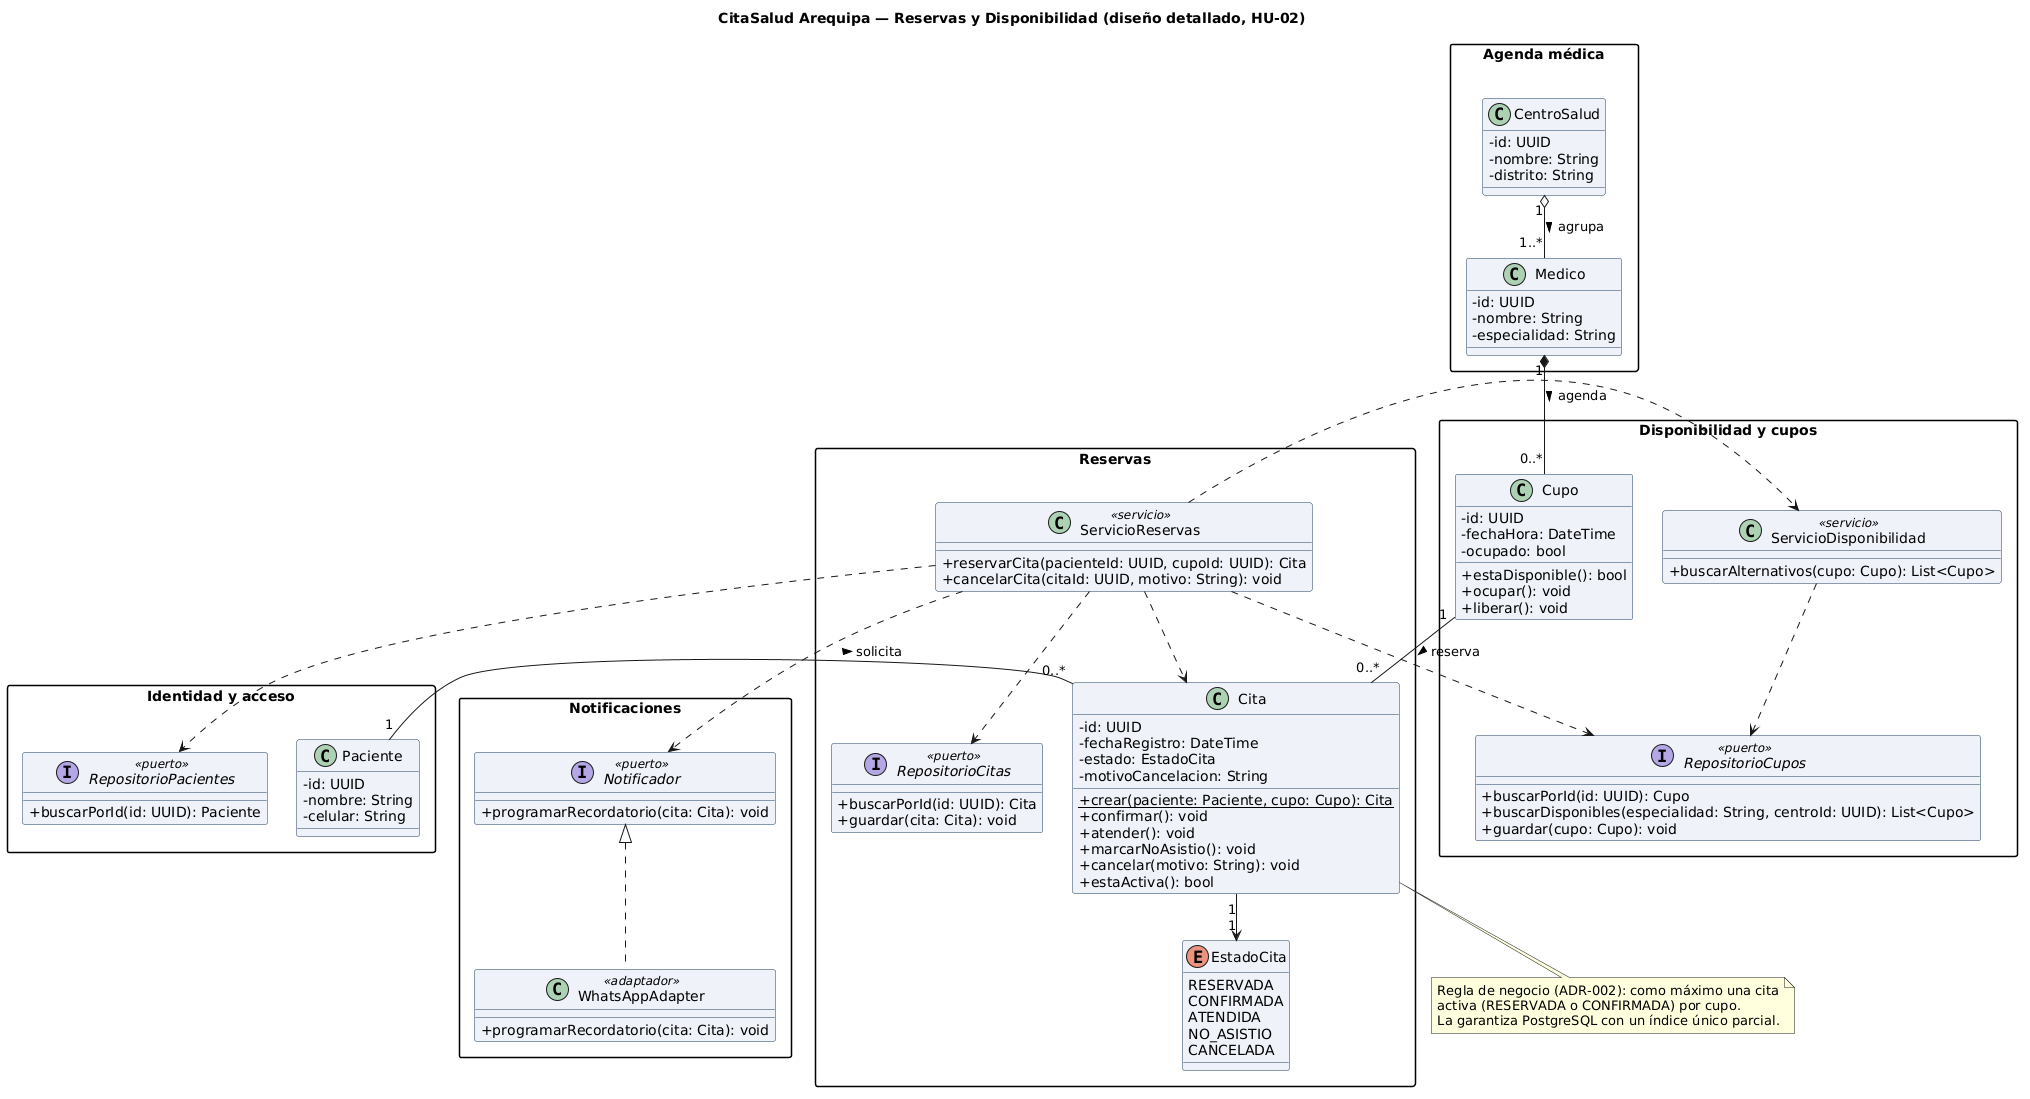
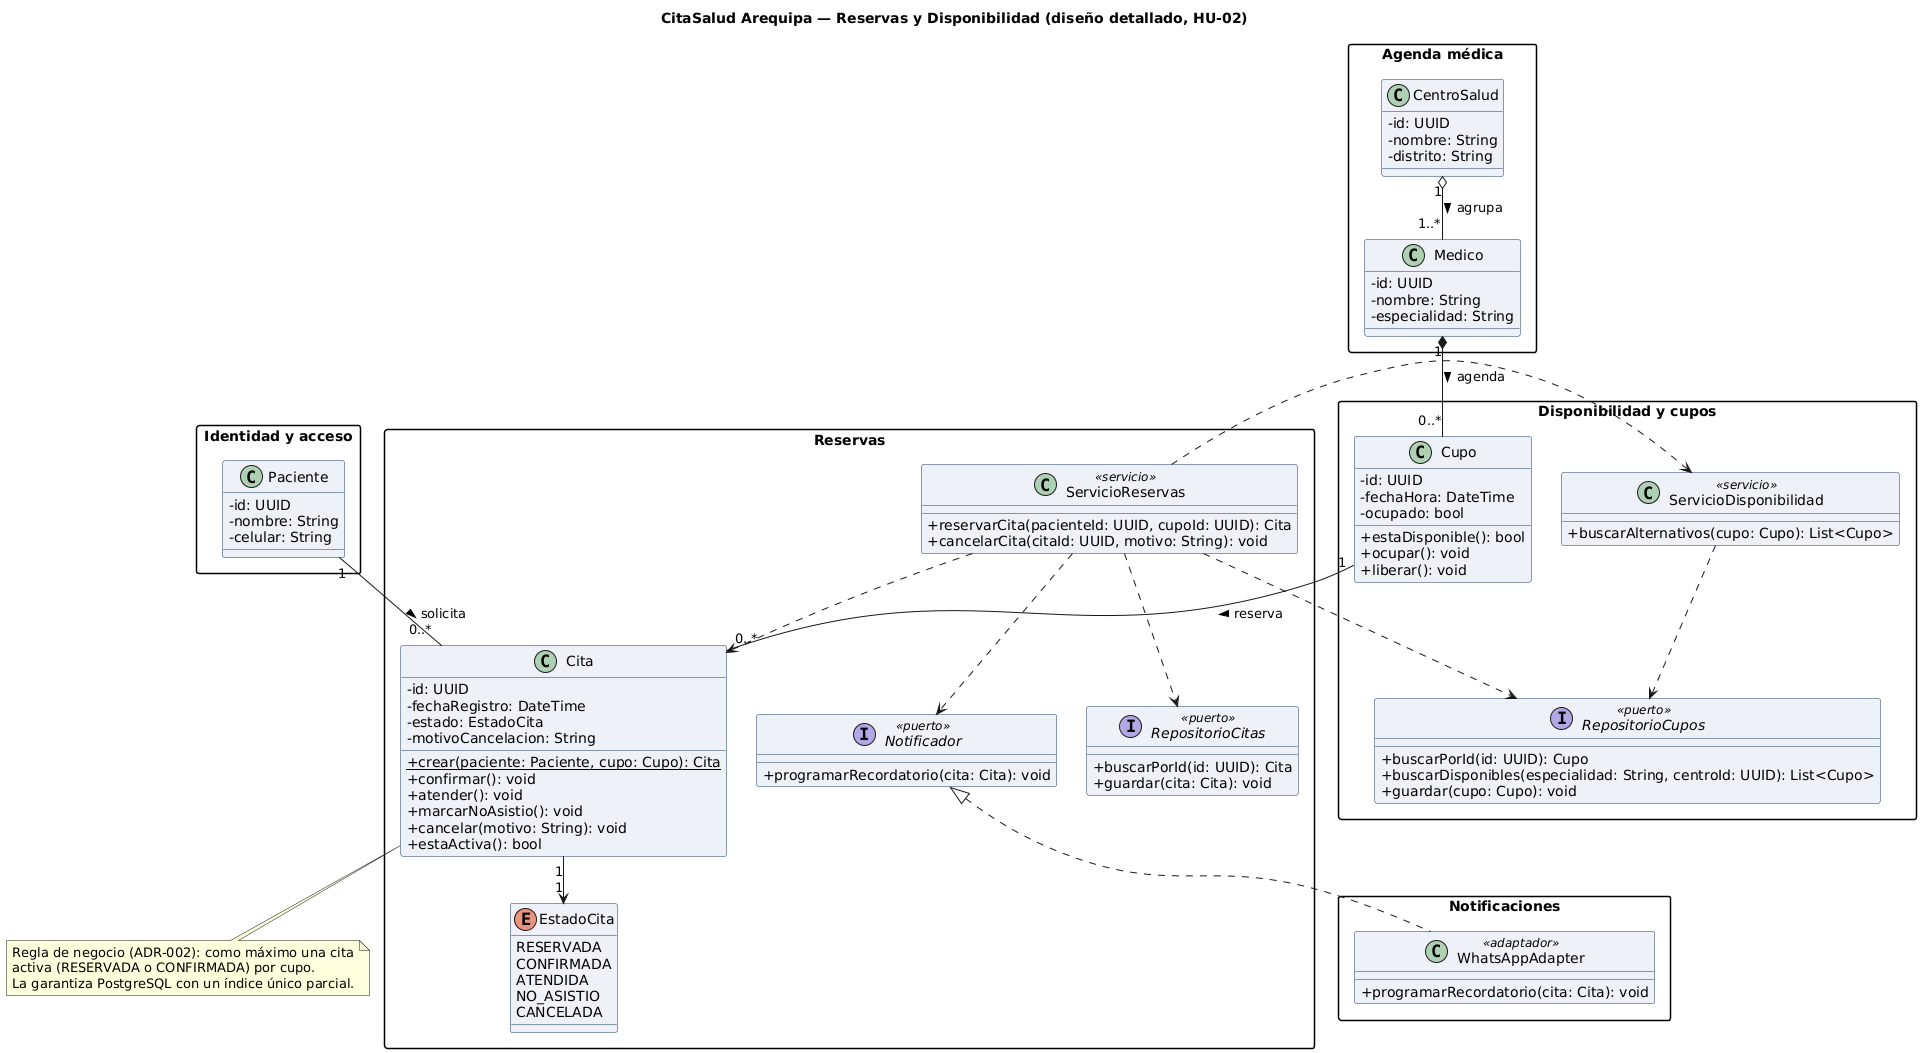
E5: paquetes

diff --git a/docs/architecture/adr/005-notificador-como-puerto-de-reservas.md b/docs/architecture/adr/005-notificador-como-puerto-de-reservas.md
@@ -1,0 +1,20 @@
+# ADR-005: Definir el puerto Notificador en el módulo Reservas
+
+- Estado: Aceptado
+- Fecha: 2026-10-10
+- Decisores: Yana Huanca Christian Alexander, Estrada Arce Sergio Emilio y Mamani Quispe Renzo Geomar
+
+## Contexto
+Al dibujar `paquetes.puml` (E5, Lab 05) y verificar la regla C4 se detectó un ciclo de dependencias entre módulos. En `clases.puml` el puerto `Notificador` estaba en *Notificaciones*, pero su operación `programarRecordatorio(cita: Cita)` recibe una `Cita`, que pertenece a *Reservas*; a la vez, `ServicioReservas` (en *Reservas*) usa `Notificador`. Resultado: *Reservas* → *Notificaciones* y *Notificaciones* → *Reservas*. Esto contradice el ADR-001 (módulos que se comunican solo por interfaces públicas, integraciones externas como adaptadores) y el ADR-003 (la reserva no debe depender de WhatsApp).
+
+## Alternativas consideradas
+1. **Puerto `Notificador` en *Reservas*; en *Notificaciones* solo el adaptador `WhatsAppAdapter`.** El módulo que consume el puerto lo define (inversión de dependencias).
+2. **Un DTO de recordatorio en un paquete `compartido`.** Elimina el ciclo, pero agrega un módulo que no está en el ADR-001 y un objeto extra para el MVP.
+3. **Dejarlo como estaba.** Mantiene el ciclo; incumple C4.
+
+## Decisión
+Usaremos la alternativa 1: el puerto `Notificador` se define en el módulo *Reservas*. *Notificaciones* contiene `WhatsAppAdapter`, que realiza ese puerto y depende de *Reservas* (por `Cita`). *Reservas* ya no depende de *Notificaciones*.
+
+## Consecuencias
+Positivas: sin ciclos entre módulos (C4); el núcleo no depende del adaptador y se pueden agregar otros canales (SMS, correo) sin tocar *Reservas*; el mensaje asíncrono `programarRecordatorio(cita)` del diagrama de secuencia no cambia.
+Negativas / riesgos: *Notificaciones* queda acoplado a *Reservas*; un recordatorio de otro tipo (no ligado a una cita) tendría que usar otro puerto. Se actualizaron `clases.puml` y su imagen para mantener la consistencia.
